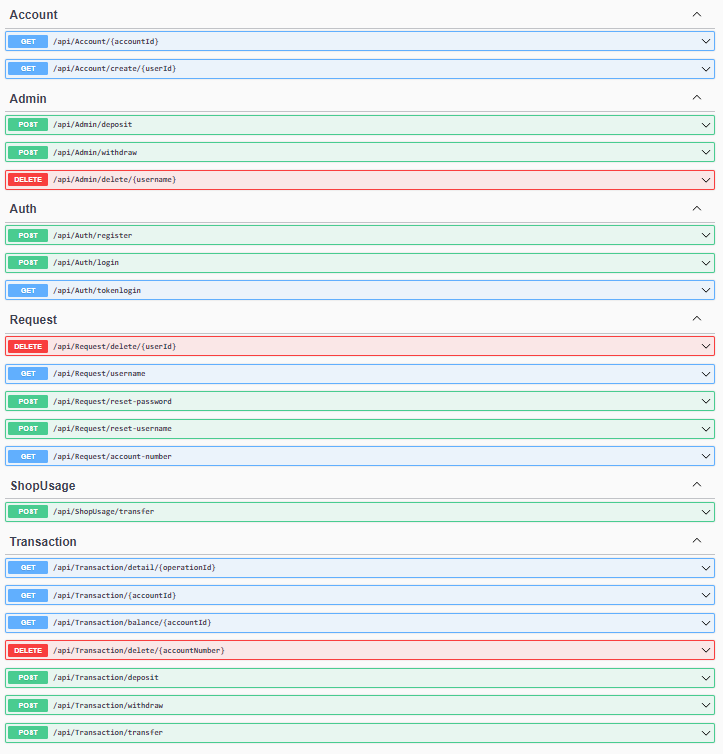
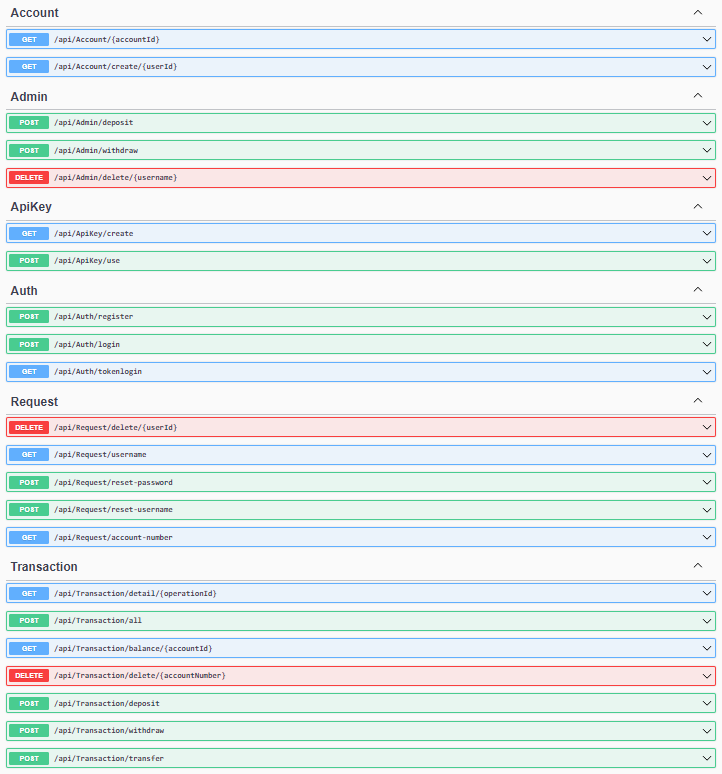
Create a Azure Service Bus and connected to it. Create ApiKey to another services, add to CorsDependencyInjection project N2 URL (OnlineShop)

Changed region(s): [[0.0, 0.0, 1.0, 1.0]]

diff --git a/BankProject/API/Bank.API/Controllers/ApiKeyController.cs b/BankProject/API/Bank.API/Controllers/ApiKeyController.cs
@@ -2,6 +2,7 @@
 using BANK.BusinessLayer.Services.Interfaces;
 using Microsoft.AspNetCore.Mvc;
 
+
 namespace Bank.API.Controllers
 {
     [Route("api/[controller]")]
@@ -13,10 +14,13 @@ namespace Bank.API.Controllers
 
         private readonly IApiService _apiService;
 
-        public ApiKeyController(ITransactionService transactionService, IApiService apiService)
+        private readonly IBusService _busService;
+
+        public ApiKeyController(ITransactionService transactionService, IApiService apiService, IBusService busService)
         {
             _transactionService = transactionService;
             _apiService = apiService;
+            _busService = busService;
         }
 
         [HttpGet("create")]
@@ -28,20 +32,24 @@ namespace Bank.API.Controllers
         }
 
         [HttpPost("use")]
-        public async Task<IActionResult> UseKey([FromBody] TransferRequest request)
+        public async Task<IActionResult> UseKey([FromBody] ShopRequest request)
         {
-
+            string status = "success";
             var apiKey = Request.Headers.ContainsKey("ApiKey") ? Request.Headers["ApiKey"].ToString() : null;
 
             var apiExists = await _apiService.ExistsApiKey(apiKey);
 
             if (!apiExists)
             {
+                status = "Api key doesn't exists";
+                await SendMessageAsync(request, status);
                 return Unauthorized(new { message = "Api key doesn't exists" });
             }
 
             if (request.ToAccount == request.FromAccount)
             {
+                status = "Operation Denied";
+                await SendMessageAsync(request, status);
                 return BadRequest(new { message = "errors.operation_denied" });
             }
 
@@ -49,10 +57,26 @@ namespace Bank.API.Controllers
 
             if (!result.Success)
             {
+                status = $"{result.Message}";
+                await SendMessageAsync(request, status);
                 return BadRequest(new { message = result.Message });
+
             }
 
+            await SendMessageAsync(request, status);
             return Ok(new { status = true, message = "transaction.transfer_success" });
+        }
+
+        private async Task SendMessageAsync(ShopRequest request, string status)
+        {
+            await _busService.messageAsync(
+                request.FromAccount,
+                request.ToAccount,
+                request.Amount,
+                request.Email,
+                request.OrderId,
+                status
+            );
         }
     }
 }

diff --git a/BankProject/API/Bank.API/Program.cs b/BankProject/API/Bank.API/Program.cs
@@ -1,5 +1,6 @@
 using Bank.API.Extensions;
 using BANK.API.Extensions.Middleware;
+using BANK.API.Models;
 using BANK.BusinessLayer.Extensions;
 using BANK.BusinessLayer.Mapping;
 using BANK.DataLayer.Data;
@@ -14,6 +15,7 @@ var logger = NLog.LogManager.Setup().LoadConfigurationFromAppSettings().GetCurre
 var builder = WebApplication.CreateBuilder(args);
 var configuration = builder.Configuration;
 
+builder.Services.Configure<ServiceBusSettings>(builder.Configuration.GetSection("ServiceBus"));
 builder.Services.AddJwtAuthentication(configuration["Jwt:Key"]);
 builder.Services.AddReactCors();
 
@@ -26,7 +28,7 @@ builder.Services.AddControllers();
 builder.Services.AddEndpointsApiExplorer();
 builder.Services.AddSwaggerGen(c =>
 {
-    c.SwaggerDoc("v1", new OpenApiInfo { Title = "MazeAPI", Version = "v1" });
+    c.SwaggerDoc("v1", new OpenApiInfo { Title = "API", Version = "v1" });
 });
 
 builder.Services.AddAuthorization();
@@ -66,9 +68,10 @@ app.UseCors("AllowReactApp");
 app.UseSwagger();
 app.UseSwaggerUI(c =>
 {
-    c.SwaggerEndpoint("/swagger/v1/swagger.json", "MazeAPI V1");
+    c.SwaggerEndpoint("/swagger/v1/swagger.json", "My API V1");
     c.RoutePrefix = string.Empty;
 });
+
 app.UseStaticFiles();
 
 app.UseEndpoints(endpoints =>

diff --git a/BankProject/API/BANK.BusinessLayer/Services/Classes/BusSerivce.cs b/BankProject/API/BANK.BusinessLayer/Services/Classes/BusSerivce.cs
@@ -1,0 +1,38 @@
+using Azure.Messaging.ServiceBus;
+using BANK.API.Models;
+using BANK.BusinessLayer.Services.Interfaces;
+using Microsoft.Extensions.Options;
+using System.Text.Json;
+
+namespace BANK.BusinessLayer.Services.Classes;
+
+public class BusSerivce : IBusService
+{
+    private readonly API.Models.ServiceBusSettings _settings;
+
+    public BusSerivce(IOptions<ServiceBusSettings> settings)
+    {
+        _settings = settings.Value;
+    }
+
+    public async Task messageAsync(string FromAccount, string ToAccount, string Amount, string Email, Guid OrderId, string Status)
+    {
+        var message = new
+        {
+            FromAccount = FromAccount,
+            ToAccount = ToAccount,
+            Amount = Amount,
+            Email = Email,
+            OrderId = OrderId,
+            Status = Status
+        };
+
+        var data = JsonSerializer.Serialize(message);
+
+        var busClient = new ServiceBusClient(_settings.ServiceBusConnection);
+        var sender = busClient.CreateSender(_settings.ServiceBusSender);
+        var messageBus = new ServiceBusMessage(data);
+
+        await sender.SendMessageAsync(messageBus);
+    }
+}

diff --git a/BankProject/API/Bank.API/Extensions/CorsDependencyInjection.cs b/BankProject/API/Bank.API/Extensions/CorsDependencyInjection.cs
@@ -8,7 +8,8 @@
             {
                 options.AddPolicy("AllowReactApp", policy =>
                 {
-                    policy.WithOrigins("https://mazebankclient-cpcadyduaafrghf0.westeurope-01.azurewebsites.net")
+                    policy.WithOrigins("https://mazebankclient-cpcadyduaafrghf0.westeurope-01.azurewebsites.net",
+				"https://online-shop-end3dnh6bygganaa.polandcentral-01.azurewebsites.net")
                           .AllowAnyHeader()
                           .AllowAnyMethod()
                           .AllowCredentials();

diff --git a/BankProject/API/BANK.BusinessLayer/Services/Interfaces/IBusService.cs b/BankProject/API/BANK.BusinessLayer/Services/Interfaces/IBusService.cs
@@ -1,0 +1,6 @@
+namespace BANK.BusinessLayer.Services.Interfaces;
+
+public interface IBusService
+{
+    public Task messageAsync(string FromAccount, string ToAccount, string Amount, string Email, Guid OrderId, string Status);
+}

diff --git a/BankProject/API/Bank.API/Models/ServiceBusSettings.cs b/BankProject/API/Bank.API/Models/ServiceBusSettings.cs
@@ -1,0 +1,9 @@
+namespace BANK.API.Models
+{
+    public class ServiceBusSettings
+    {
+        public string ServiceBusConnection { get; set; }
+
+        public string ServiceBusSender { get; } = "MazeBusSender";
+    }
+}
